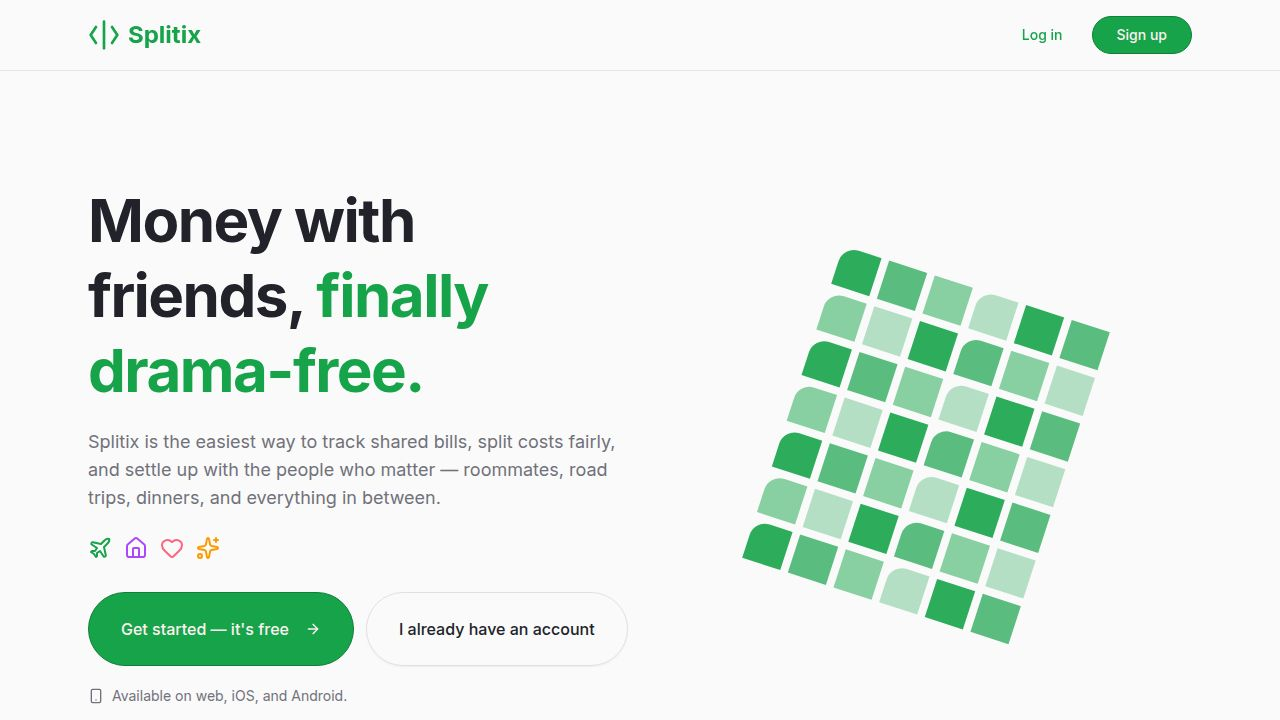
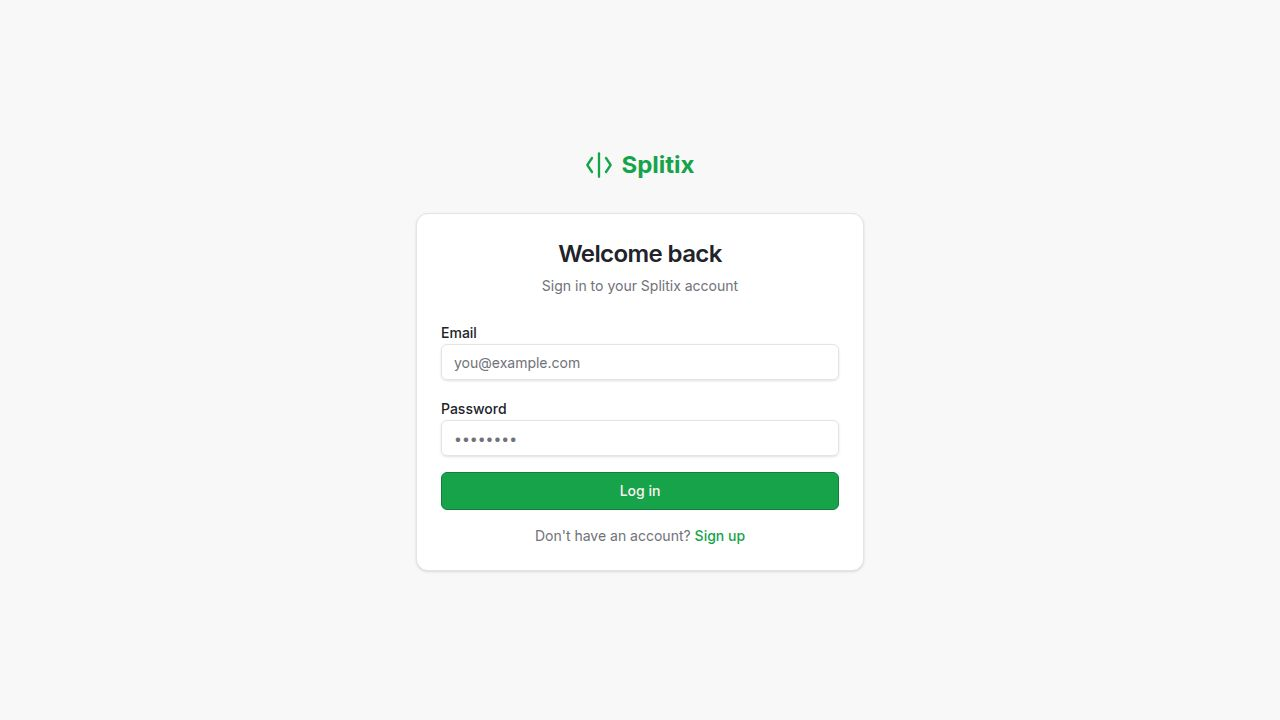
Update currency display to reflect user profile changes instantly
Modify the currency formatting module to use React's `useSyncExternalStore` for reactive updates, ensuring that changes to the user's default currency in their profile are immediately reflected across the entire application on both web and mobile platforms.

Replit-Commit-Author: Agent
Replit-Commit-Session-Id: cce7c388-e49c-4aa7-8886-50a0ec1cc5b1
Replit-Commit-Checkpoint-Type: full_checkpoint
Replit-Commit-Event-Id: ad143ae0-4711-4ec6-8cf4-914b1520f21d
Replit-Commit-Screenshot-Url: https://storage.googleapis.com/screenshot-production-us-central1/3d621746-ca02-49f2-a756-7929c1a7f803/cce7c388-e49c-4aa7-8886-50a0ec1cc5b1/1gng0qV
Replit-Helium-Checkpoint-Created: true

diff --git a/artifacts/splitwise-web/src/lib/format.ts b/artifacts/splitwise-web/src/lib/format.ts
@@ -1,11 +1,29 @@
+import { useSyncExternalStore } from "react";
+
 let displayCurrency = "USD";
+const listeners = new Set<() => void>();
+
+function subscribe(cb: () => void) {
+  listeners.add(cb);
+  return () => listeners.delete(cb);
+}
 
 export function setDisplayCurrency(c: string | null | undefined) {
-  if (c && typeof c === "string") displayCurrency = c;
+  if (c && typeof c === "string" && c !== displayCurrency) {
+    displayCurrency = c;
+    listeners.forEach((cb) => cb());
+  }
 }
 
 export function getDisplayCurrency(): string {
   return displayCurrency;
+}
+
+// Subscribe at the root so the whole tree re-renders when the viewer's
+// preferred currency changes. The returned value is the current symbol code,
+// but its real purpose is to register a React subscription.
+export function useDisplayCurrency(): string {
+  return useSyncExternalStore(subscribe, getDisplayCurrency, getDisplayCurrency);
 }
 
 export function formatCurrency(amount: number, _currency?: string) {

diff --git a/artifacts/splitwise-mobile/lib/format.ts b/artifacts/splitwise-mobile/lib/format.ts
@@ -1,11 +1,28 @@
+import { useSyncExternalStore } from "react";
+
 let displayCurrency = "USD";
+const listeners = new Set<() => void>();
+
+function subscribe(cb: () => void) {
+  listeners.add(cb);
+  return () => listeners.delete(cb);
+}
 
 export function setDisplayCurrency(c: string | null | undefined) {
-  if (c && typeof c === "string") displayCurrency = c;
+  if (c && typeof c === "string" && c !== displayCurrency) {
+    displayCurrency = c;
+    listeners.forEach((cb) => cb());
+  }
 }
 
 export function getDisplayCurrency(): string {
   return displayCurrency;
+}
+
+// Subscribe at the root layout so the whole tree re-renders when the
+// viewer's preferred currency changes.
+export function useDisplayCurrency(): string {
+  return useSyncExternalStore(subscribe, getDisplayCurrency, getDisplayCurrency);
 }
 
 export function formatCurrency(amount: number, _currency?: string): string {

diff --git a/artifacts/splitwise-mobile/app/_layout.tsx b/artifacts/splitwise-mobile/app/_layout.tsx
@@ -19,7 +19,7 @@ import { ErrorBoundary } from "@/components/ErrorBoundary";
 import { configureApi, configureUnauthorizedHandler } from "@/lib/api";
 import { AuthProvider, useAuth, getToken } from "@/lib/auth";
 import { useColors } from "@/hooks/useColors";
-import { setDisplayCurrency } from "@/lib/format";
+import { setDisplayCurrency, useDisplayCurrency } from "@/lib/format";
 
 SplashScreen.preventAutoHideAsync();
 
@@ -47,13 +47,19 @@ const API_BASE_URL = domain ? `https://${domain}` : "";
 // own symbol regardless of what's stored on the expense/group/payment.
 function DisplayCurrencyBridge() {
   const me = useGetMe();
+  const next = me.data?.defaultCurrency;
+  // Push the latest defaultCurrency into the format module after commit so
+  // notifying subscribers doesn't trigger an update during render.
   useEffect(() => {
-    if (me.data?.defaultCurrency) setDisplayCurrency(me.data.defaultCurrency);
-  }, [me.data?.defaultCurrency]);
+    if (next) setDisplayCurrency(next);
+  }, [next]);
   return null;
 }
 
 function AuthGate() {
+  // Subscribe so the entire navigation tree re-renders when the viewer's
+  // preferred currency changes (formatCurrency reads it from a module store).
+  useDisplayCurrency();
   const { isLoaded, isSignedIn, signOut } = useAuth();
   const segments = useSegments();
   const router = useRouter();

diff --git a/artifacts/splitwise-web/src/App.tsx b/artifacts/splitwise-web/src/App.tsx
@@ -4,7 +4,7 @@ import { QueryClientProvider } from "@tanstack/react-query";
 import { useGetMe } from "@workspace/api-client-react";
 import { queryClient } from "./lib/queryClient";
 import { AuthProvider, useAuth } from "./lib/auth";
-import { setDisplayCurrency } from "./lib/format";
+import { setDisplayCurrency, useDisplayCurrency } from "./lib/format";
 import { Toaster } from "@/components/ui/toaster";
 import { TooltipProvider } from "@/components/ui/tooltip";
 
@@ -82,9 +82,12 @@ function ScrollToTop() {
 // own symbol regardless of what's stored on the expense/group/payment.
 function DisplayCurrencyBridge() {
   const me = useGetMe();
+  const next = me.data?.defaultCurrency;
+  // Push the latest defaultCurrency into the format module after commit so
+  // notifying subscribers doesn't trigger an update during render.
   useEffect(() => {
-    if (me.data?.defaultCurrency) setDisplayCurrency(me.data.defaultCurrency);
-  }, [me.data?.defaultCurrency]);
+    if (next) setDisplayCurrency(next);
+  }, [next]);
   return null;
 }
 
@@ -107,6 +110,9 @@ function NotFound() {
 }
 
 function Routes() {
+  // Subscribe so the entire route tree re-renders when the viewer's
+  // preferred currency changes (formatCurrency reads it from a module store).
+  useDisplayCurrency();
   return (
     <Switch>
       <Route path="/" component={HomeRedirect} />